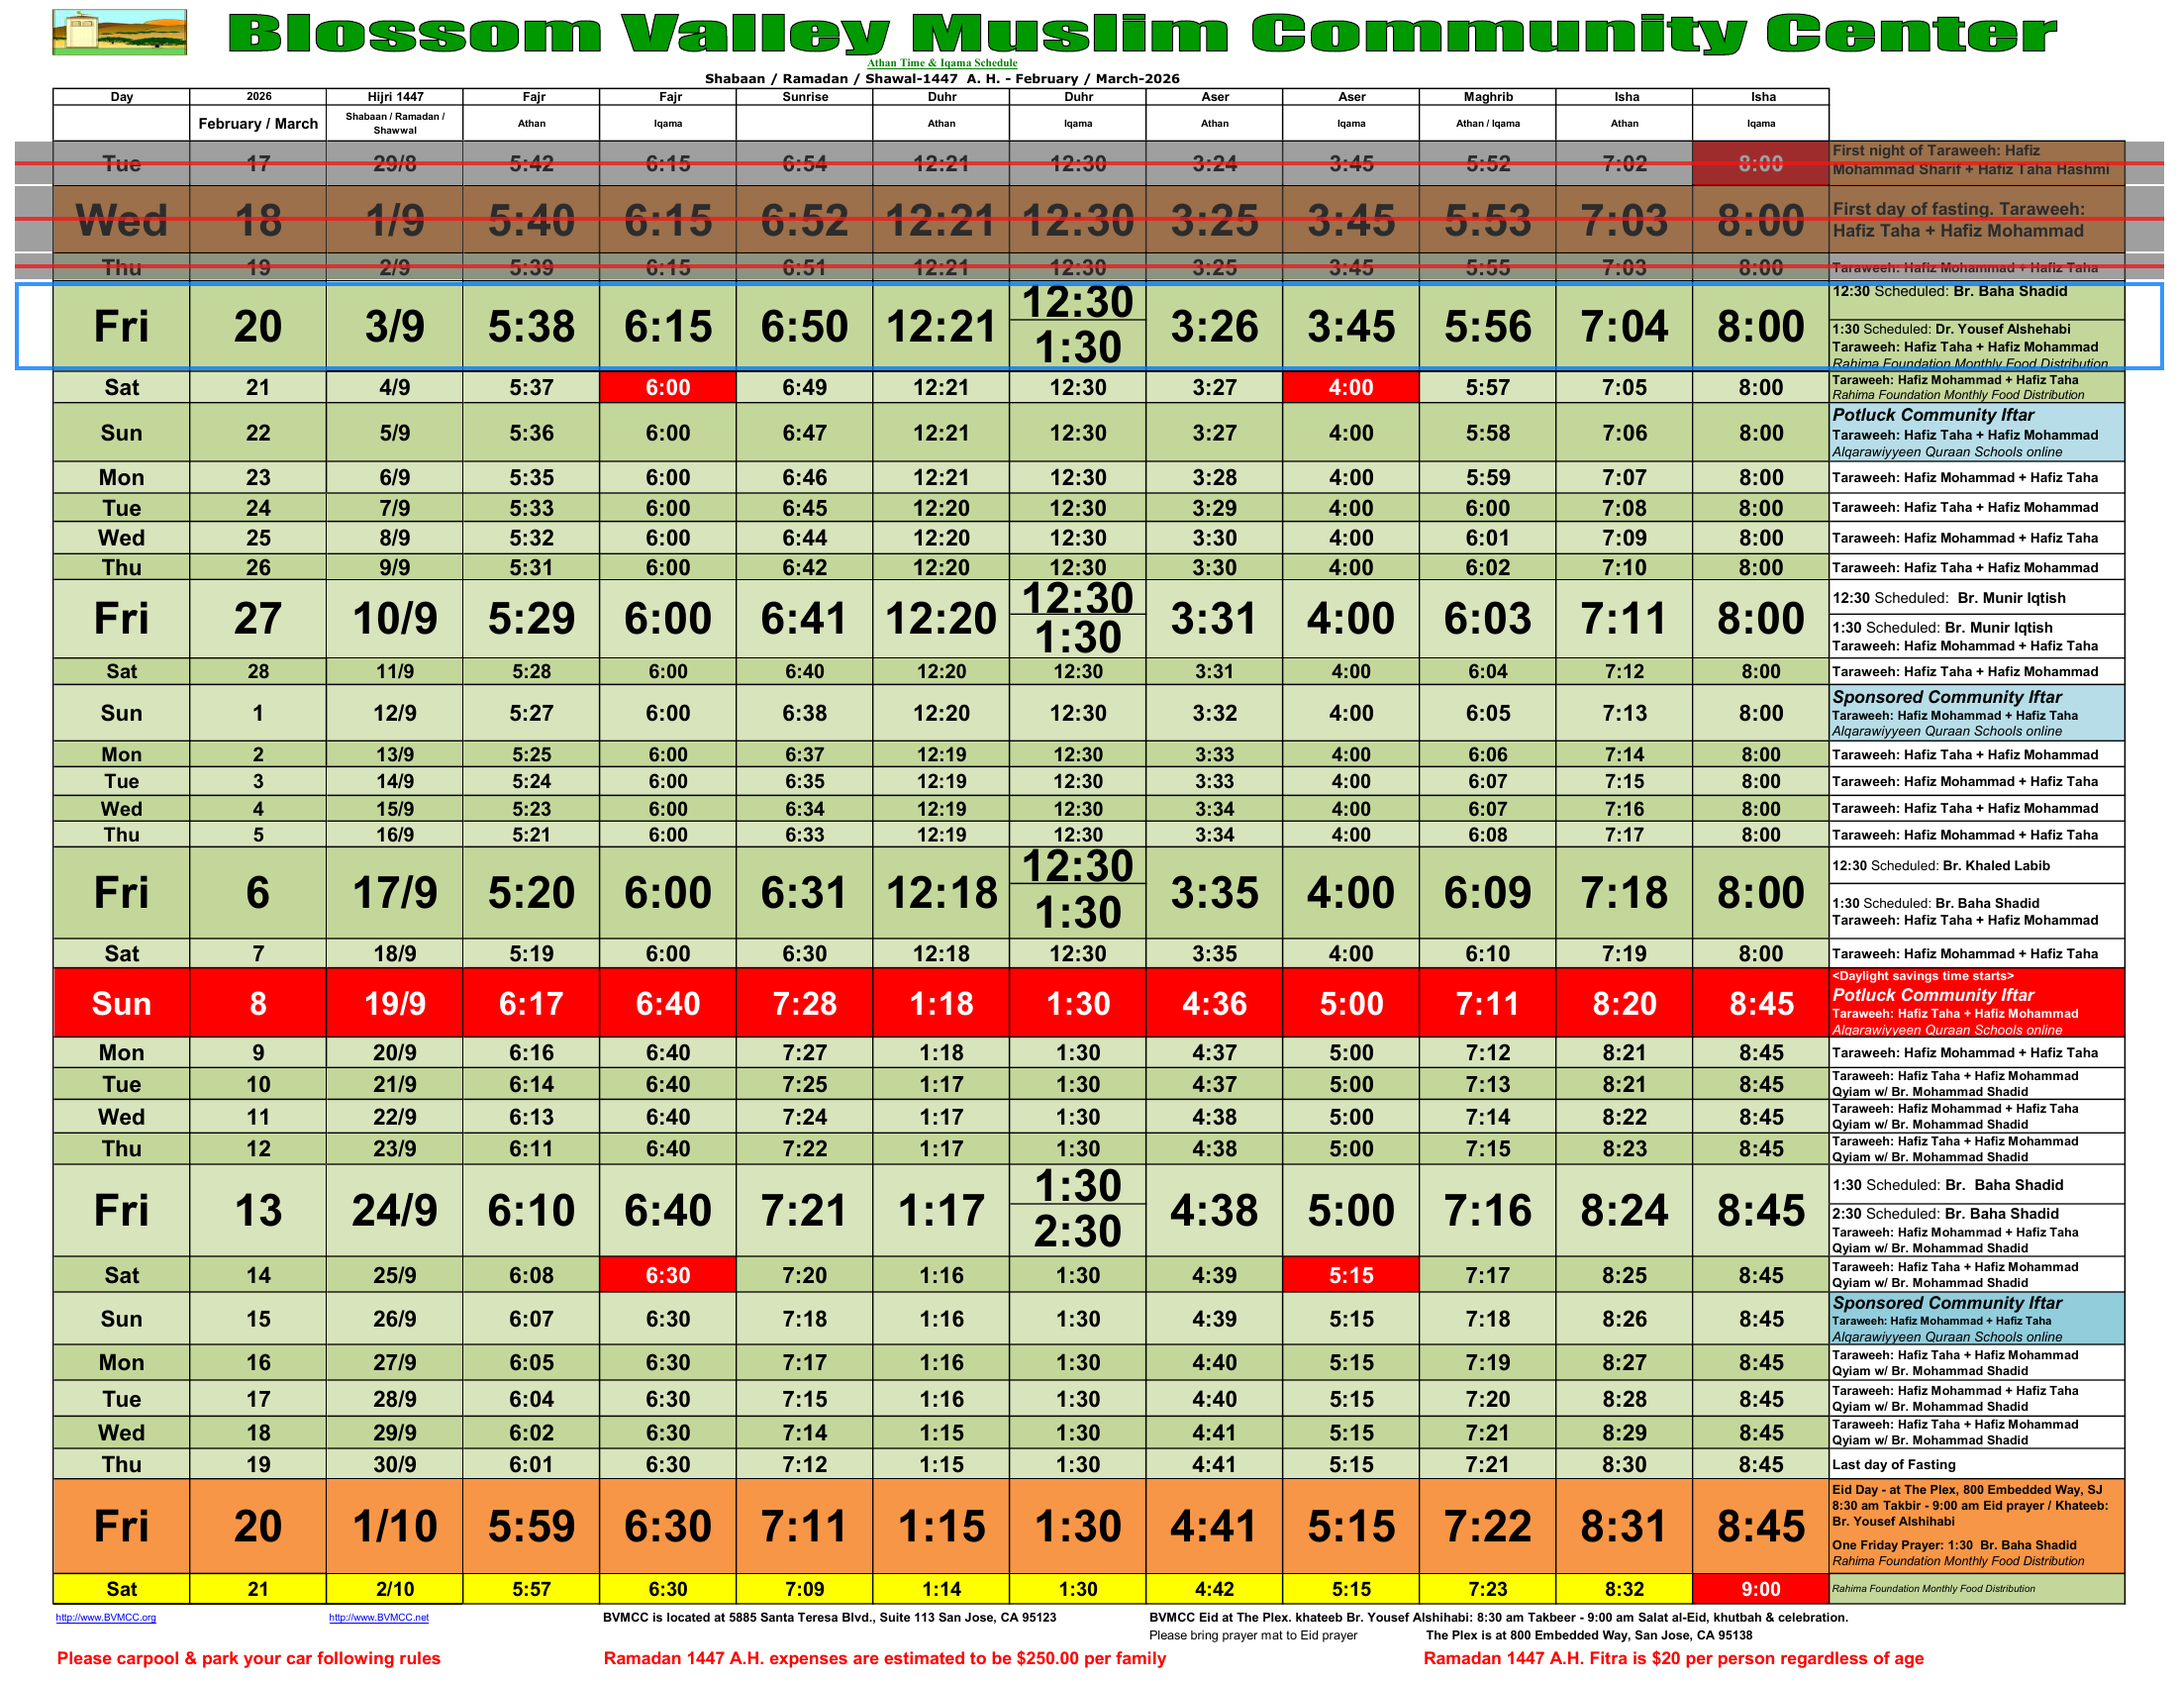
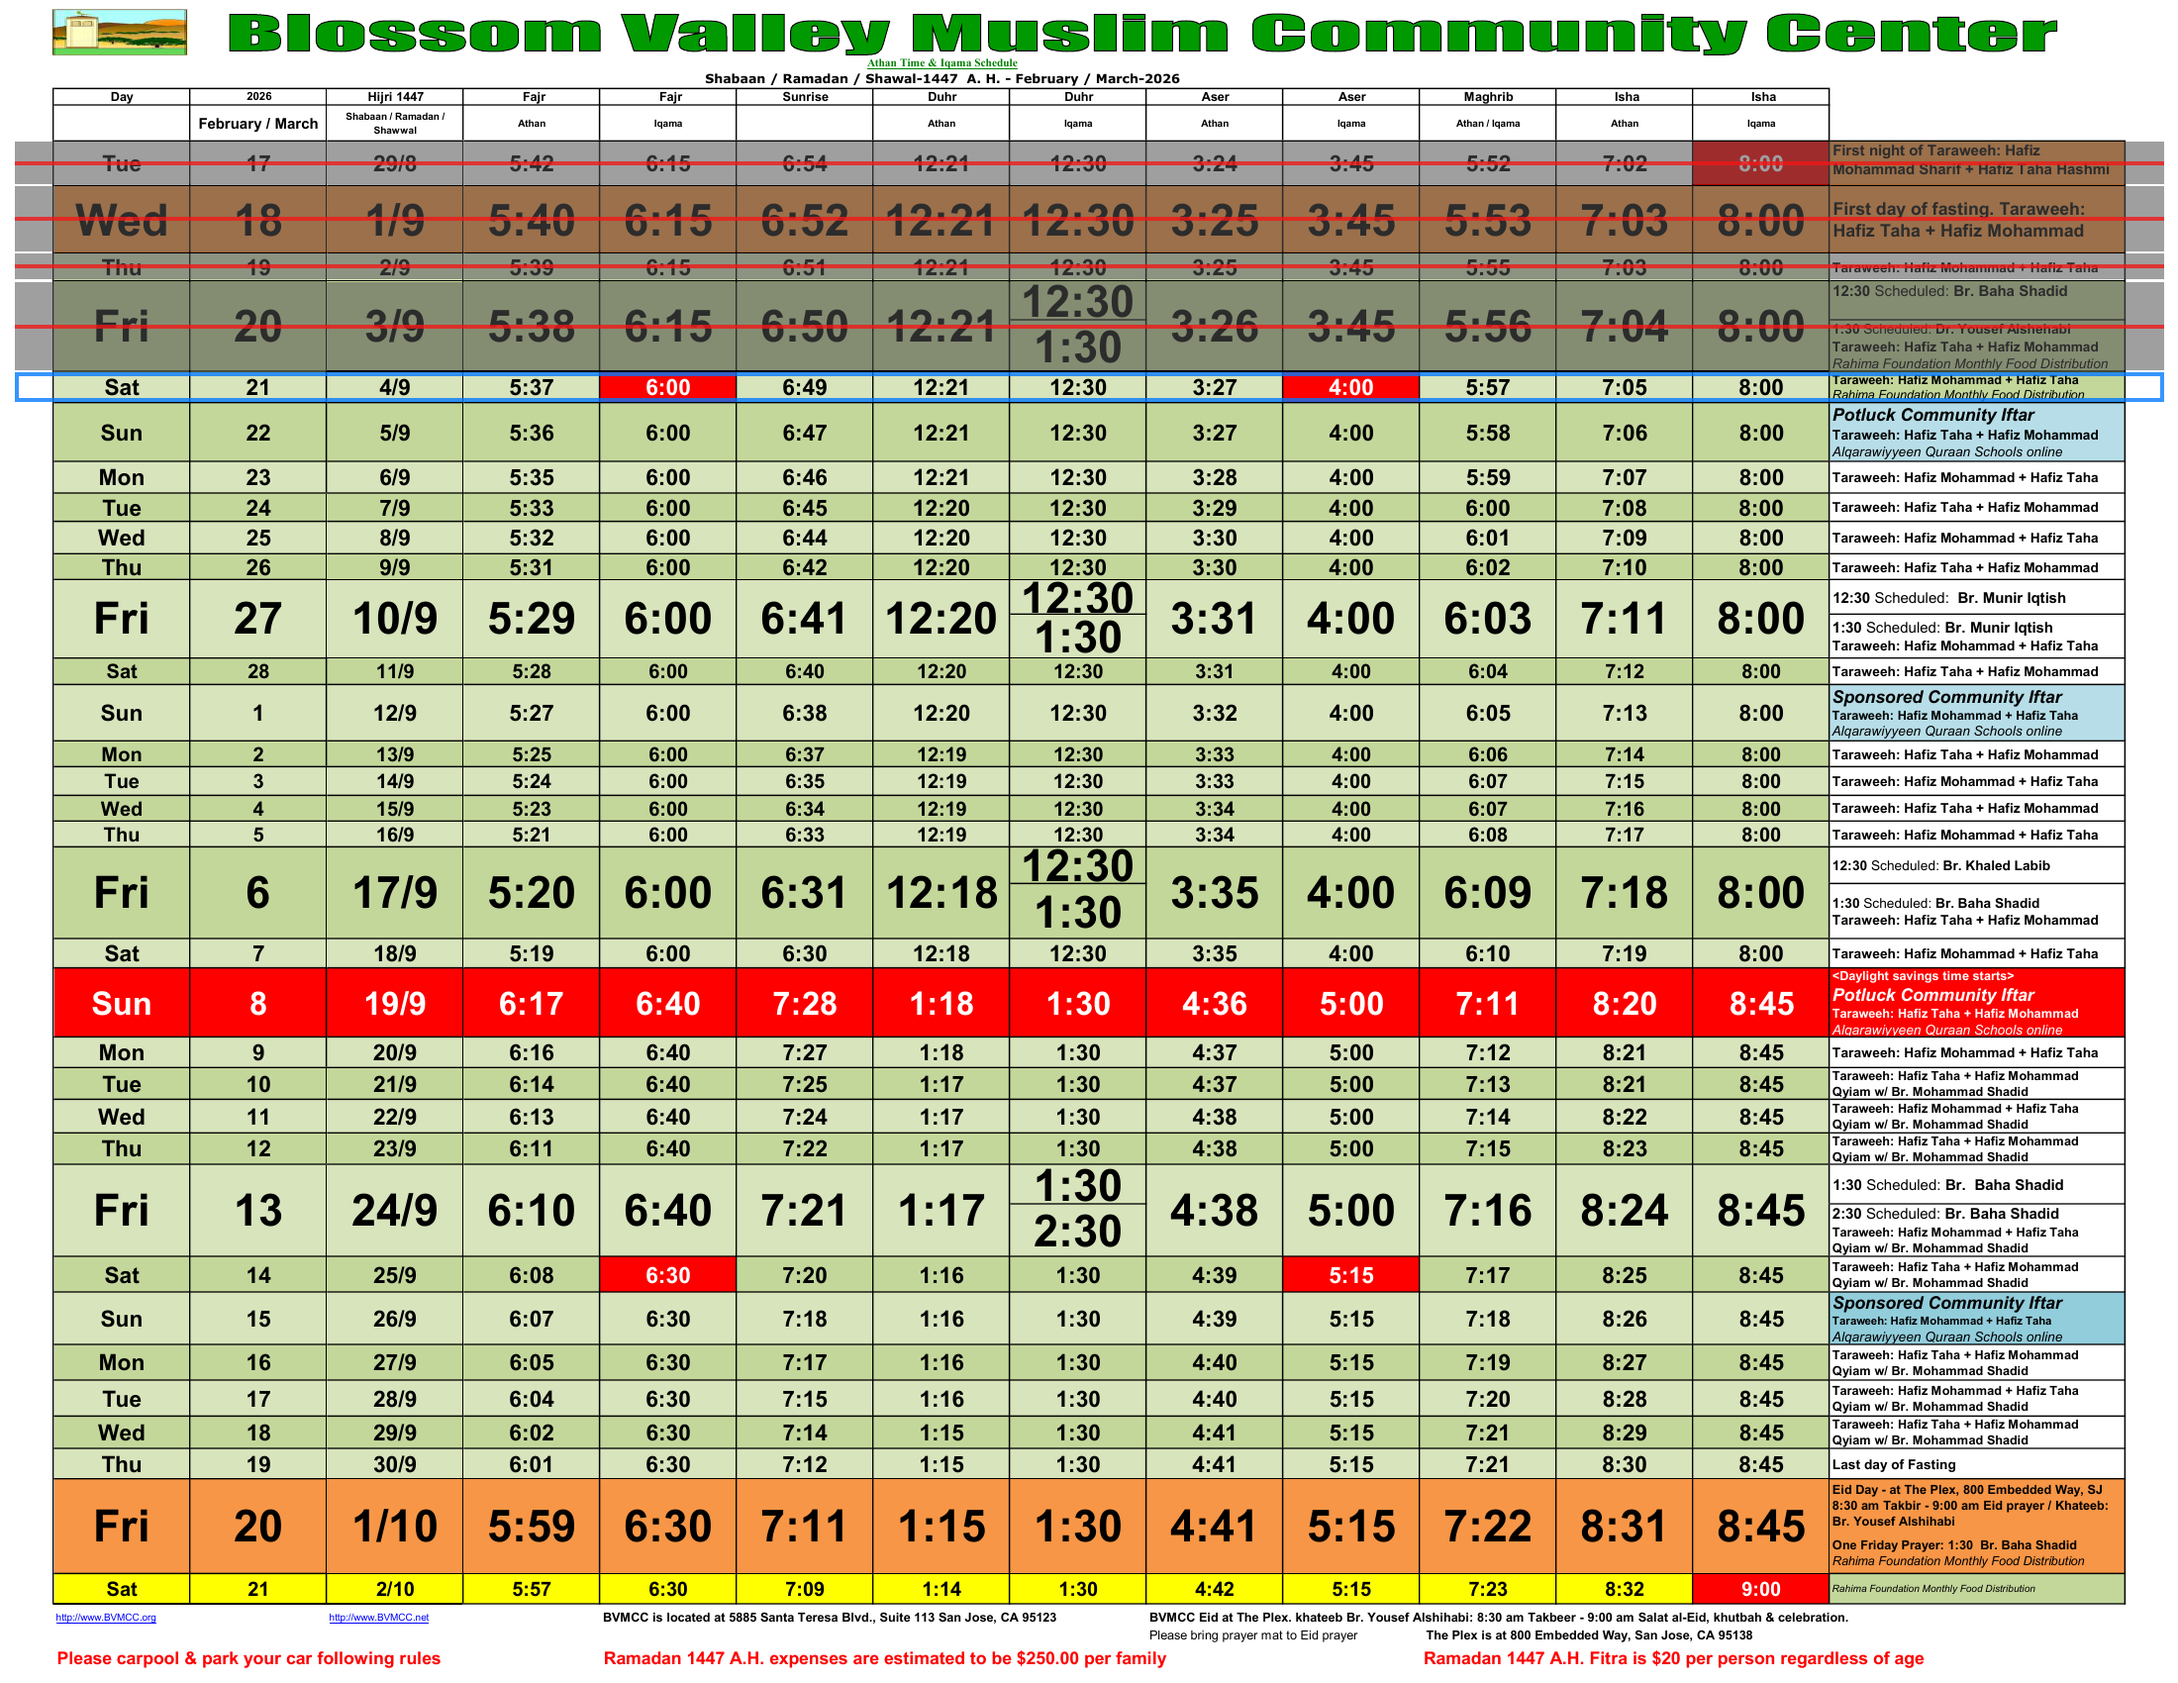
Update schedule for 2026-02-21

Changed region(s): [[0.0, 0.1559, 1.0, 0.2494]]

diff --git a/docs/index.html b/docs/index.html
@@ -55,11 +55,11 @@
 <body>
     <div class="header">
         <h1>BVMCC Ramadan 1447 Schedule</h1>
-        <div class="date">Today: Friday, February 20, 2026</div>
-        <div class="updated">Last updated: Feb 20, 2026 at 08:27 AM</div>
+        <div class="date">Today: Saturday, February 21, 2026</div>
+        <div class="updated">Last updated: Feb 21, 2026 at 08:16 AM</div>
     </div>
     <div class="schedule-container">
-        <img src="schedule.png?v=2026-02-20" alt="Ramadan Schedule">
+        <img src="schedule.png?v=2026-02-21" alt="Ramadan Schedule">
     </div>
 </body>
 </html>
